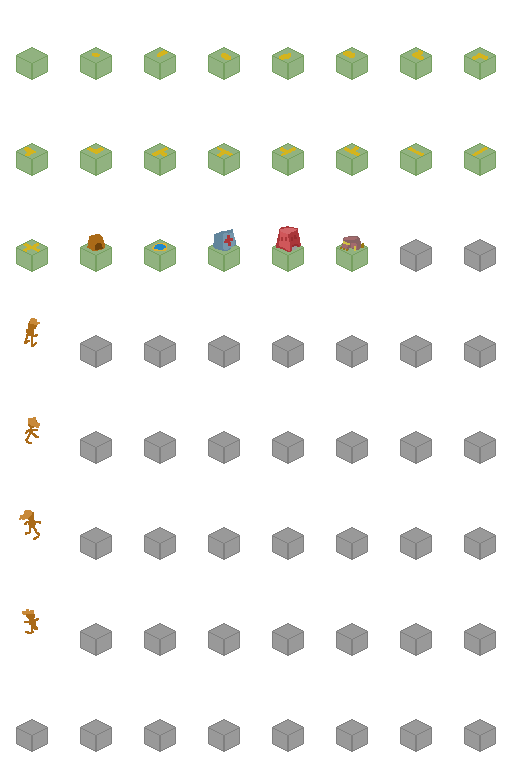
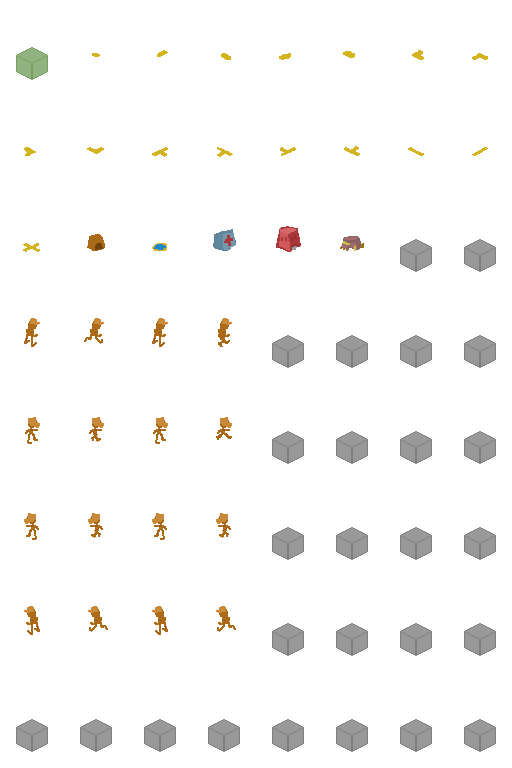
feat(game): a walker's legs move as it crosses a cell
Each facing's row of the 1x1 sheet now holds four walk-cycle
frames, cycled left to right once per cell and starting over, with
the first frame doubling as the standing sprite an idle walker
holds.

Which frame shows is walkerFrame() in WalkerMotion, beside the
slide it keeps step with: the same exact stepPhase() fraction,
times the cycle length, truncated.  One clock for the legs and the
ground, so neither can drift against the other, and a paused run
freezes both through the same forced zero fraction GridScene
already applies to the slide.

walkerTile() takes the frame and keeps the sheet's layout in
TileAtlas.hpp, where every other index becomes pixels; asking for
a frame past the cycle wraps, as spriteRect() wraps.  The atlas
art gains the twelve new frames.

diff --git a/src/apps/game/include/antwika/game/TileAtlas.hpp b/src/apps/game/include/antwika/game/TileAtlas.hpp
@@ -240,10 +240,20 @@ namespace antwika::game
      * @brief The first of the four walker rows in the 1x1 sheet.
      *
      * A whole row per facing rather than a sprite, in Direction order,
-     * with today's art in column 0 and the rest of each row reserved
-     * for the walk cycle's frames.
+     * with the walk cycle's frames in the first kWalkCycleFrames
+     * columns and the rest of each row still reserved.
      */
     inline constexpr std::uint32_t kFirstWalkerRow = 3;
+
+    /**
+     * @brief How many frames each facing's walk cycle has.
+     *
+     * The first kWalkCycleFrames columns of a facing's row, cycled
+     * left to right; column 0 doubles as the standing frame, so an
+     * idle walker is the cycle held at its start rather than a fifth
+     * sprite.
+     */
+    inline constexpr std::uint32_t kWalkCycleFrames = 4;
 
     /**
      * @brief Which sprite draws each building kind, in its own sheet.
@@ -325,6 +335,11 @@ namespace antwika::game
     static_assert(
         kFirstWalkerRow + kDirectionCount <= kAtlasRows,
         "the 1x1 sheet has no row for every walker facing");
+
+    // A cycle wider than a row would walk into the next facing's art.
+    static_assert(
+        kWalkCycleFrames <= kAtlasColumns,
+        "a facing's walk cycle must fit in its own row");
 
     // A footprint's edge is what picks a sheet, so it must pick one.
     static_assert(
@@ -412,16 +427,27 @@ namespace antwika::game
 
     /**
      * @brief Get the sprite a walker facing this way is drawn from.
+     *
+     * Which frame to ask for is WalkerMotion's walkerFrame(); this
+     * only turns the pair into pixels, so the sheet's layout stays in
+     * this one header.
+     *
      * @param facing The direction the walker is facing.
+     * @param frame Which frame of the facing's walk cycle to show;
+     * one past the last wraps round, as spriteRect()'s index does,
+     * and the default is the standing frame.
      * @return The walker sprite's rectangle, in the 1x1 sheet's pixels.
      */
-    [[nodiscard]] constexpr Rect walkerTile(Direction facing) noexcept
+    [[nodiscard]] constexpr Rect walkerTile(
+        Direction facing, std::uint32_t frame = 0) noexcept
     {
         const auto row = kFirstWalkerRow
             + static_cast<std::uint32_t>(
                 directionIndex(facing) % kDirectionCount);
 
-        return spriteRect(AtlasKind::OneByOne, row * kAtlasColumns);
+        return spriteRect(
+            AtlasKind::OneByOne,
+            row * kAtlasColumns + frame % kWalkCycleFrames);
     }
 
     /**

diff --git a/src/apps/game/tests/TileAtlasTest.cpp b/src/apps/game/tests/TileAtlasTest.cpp
@@ -30,6 +30,7 @@ using antwika::game::kAtlasRows;
 using antwika::game::kFirstWalkerRow;
 using antwika::game::kLinkMask;
 using antwika::game::kRoadSpriteCount;
+using antwika::game::kWalkCycleFrames;
 using antwika::game::linkBit;
 using antwika::game::roadTile;
 using antwika::game::spriteRect;
@@ -248,8 +249,8 @@ TEST(TileAtlasTest, WalkerTile_GivesEachFacingASpriteOfItsOwn)
     }
 }
 
-// A row per facing, with today's sprite in its first column.
-// The rest of each row is reserved for the walk cycle's frames.
+// A row per facing, with the standing frame in its first column.
+// The columns past the cycle are still reserved.
 TEST(TileAtlasTest, WalkerTile_StartsEachFacingsRow)
 {
     for (const auto facing : kEveryDirection)
@@ -262,6 +263,33 @@ TEST(TileAtlasTest, WalkerTile_StartsEachFacingsRow)
             walkerTile(facing),
             spriteRect(AtlasKind::OneByOne, row * kAtlasColumns));
     }
+}
+
+// The walk cycle runs left to right along the facing's own row.
+// Its first frame is the standing sprite, so no fifth is needed.
+TEST(TileAtlasTest, WalkerTile_WalksEachFacingsRowLeftToRight)
+{
+    for (const auto facing : kEveryDirection)
+    {
+        const auto row = kFirstWalkerRow
+            + static_cast<std::uint32_t>(
+                antwika::game::directionIndex(facing));
+
+        for (std::uint32_t frame = 0; frame < kWalkCycleFrames; ++frame)
+        {
+            EXPECT_EQ(
+                walkerTile(facing, frame),
+                spriteRect(
+                    AtlasKind::OneByOne, row * kAtlasColumns + frame));
+        }
+    }
+}
+
+TEST(TileAtlasTest, WalkerTile_WrapsAFramePastTheCycleRound)
+{
+    EXPECT_EQ(
+        walkerTile(Direction::North, kWalkCycleFrames),
+        walkerTile(Direction::North, 0));
 }
 
 // A building's sheet is its footprint's, by construction.
@@ -341,7 +369,10 @@ TEST(TileAtlasTest, NoTwoRangesShareASprite)
 
     for (const auto facing : kEveryDirection)
     {
-        keep(AtlasKind::OneByOne, walkerTile(facing));
+        for (std::uint32_t frame = 0; frame < kWalkCycleFrames; ++frame)
+        {
+            keep(AtlasKind::OneByOne, walkerTile(facing, frame));
+        }
     }
 
     for (std::size_t index = 0; index < antwika::game::kBuildingKindCount;

diff --git a/src/apps/game/tests/WalkerMotionTest.cpp b/src/apps/game/tests/WalkerMotionTest.cpp
@@ -17,8 +17,10 @@ using antwika::game::tileSpriteBounds;
 using antwika::game::Cell;
 using antwika::game::Direction;
 using antwika::game::kTicksPerStep;
+using antwika::game::kWalkCycleFrames;
 using antwika::game::stepPhase;
 using antwika::game::walkerBounds;
+using antwika::game::walkerFrame;
 using antwika::game::WalkerSprite;
 
 namespace
@@ -66,6 +68,35 @@ TEST(WalkerMotionTest, StepPhase_NeverReachesTheEndOfTheStep)
         stepPhase(kTicksPerStep - 1, Progress(frames - 1, frames));
 
     EXPECT_LT(last.numerator(), last.denominator());
+}
+
+// The legs read the same clock as the slide.
+// One whole cycle per cell, left to right, frame by frame.
+TEST(WalkerMotionTest, WalkerFrame_CyclesOncePerCellAsThePhaseGoes)
+{
+    EXPECT_EQ(walkerFrame(stepping(0), Progress()), 0U);
+    EXPECT_EQ(walkerFrame(stepping(0), Progress(1, 2)), 1U);
+    EXPECT_EQ(walkerFrame(stepping(1), Progress()), 2U);
+    EXPECT_EQ(walkerFrame(stepping(1), Progress(1, 2)), 3U);
+}
+
+TEST(WalkerMotionTest, WalkerFrame_NeverLeavesTheCycle)
+{
+    // The last frame of the last tick of a step stays the last frame.
+    // stepPhase() never reaches one, so the quotient never wraps.
+    EXPECT_EQ(
+        walkerFrame(stepping(kTicksPerStep - 1), Progress(7, 8)),
+        kWalkCycleFrames - 1);
+}
+
+TEST(WalkerMotionTest, WalkerFrame_HoldsAnIdleWalkerOnTheStandingFrame)
+{
+    // A walker with nowhere it came from has never stepped.
+    // Whatever the frames do, it stands on the cycle's first frame.
+    const WalkerSprite fresh{.at = kDestination};
+
+    EXPECT_EQ(walkerFrame(fresh, Progress()), 0U);
+    EXPECT_EQ(walkerFrame(fresh, Progress(3, 4)), 0U);
 }
 
 TEST(WalkerMotionTest, WalkerBounds_PutsAWalkerAtItsStartWhenNoneHasGone)

diff --git a/src/apps/game/tests/GridSceneTest.cpp b/src/apps/game/tests/GridSceneTest.cpp
@@ -380,6 +380,53 @@ TEST_F(GridSceneTest, Draw_ChoosesAWalkerTileByWhichWayItFaces)
     }
 }
 
+// The legs read the same clock as the slide.
+// A tick and a half into a two-tick step is frame 3 of 4.
+TEST_F(GridSceneTest, Draw_CyclesAWalkersLegsAsItCrossesACell)
+{
+    scene.draw(
+        renderer,
+        kCanvas,
+        snapshot(
+            Camera(Point{.x = 300, .y = 40}, 2),
+            GridExtent{},
+            {},
+            {WalkerSprite{
+                .at = Cell{.x = 1, .y = 1},
+                .facing = Direction::East,
+                .from = Cell{.x = 0, .y = 1},
+                .ticksIntoStep = 1}}),
+        atlases,
+        Progress(1, 2));
+
+    ASSERT_EQ(renderer.blits.size(), 1U);
+    EXPECT_EQ(
+        renderer.blits.front().source, walkerTile(Direction::East, 3));
+}
+
+// A held walker's legs freeze with its slide.
+// The same forced zero fraction decides both -- see draw().
+TEST_F(GridSceneTest, Draw_HoldsAPausedWalkersLegsStill)
+{
+    auto scene_ = snapshot(
+        Camera(Point{.x = 300, .y = 40}, 2),
+        GridExtent{},
+        {},
+        {WalkerSprite{
+            .at = Cell{.x = 1, .y = 1},
+            .facing = Direction::East,
+            .from = Cell{.x = 0, .y = 1},
+            .ticksIntoStep = 1}});
+    scene_.paused = true;
+
+    scene.draw(renderer, kCanvas, scene_, atlases, Progress(1, 2));
+
+    // One whole tick of the step and none of the frame is frame 2.
+    ASSERT_EQ(renderer.blits.size(), 1U);
+    EXPECT_EQ(
+        renderer.blits.front().source, walkerTile(Direction::East, 2));
+}
+
 // A walker is never hidden by the road it is standing on.
 TEST_F(GridSceneTest, Draw_BlitsAWalkerAfterTheGroundAndTheRoad)
 {

diff --git a/src/apps/game/tests/RenderSystemTest.cpp b/src/apps/game/tests/RenderSystemTest.cpp
@@ -504,10 +504,12 @@ TEST_F(RenderSystemTest, Draw_HoldsAWalkerStillWhileTheRunIsPaused)
     Rect atTick{};
     Rect between{};
 
+    // Held legs freeze too: both frames show the walk cycle's frame 2.
+    // One whole tick of a two-tick step, and none of the frame.
     EXPECT_CALL(renderer, drawTexture(_, _, _, _)).Times(AnyNumber());
     EXPECT_CALL(
         renderer,
-        drawTexture(Ref(atlas), walkerTile(Direction::East), _, _))
+        drawTexture(Ref(atlas), walkerTile(Direction::East, 2), _, _))
         .WillOnce(SaveArg<2>(&atTick))
         .WillOnce(SaveArg<2>(&between));
 
@@ -536,11 +538,16 @@ TEST_F(RenderSystemTest, Draw_SlidesAWalkerWhileTheRunIsNotPaused)
     Rect atTick{};
     Rect between{};
 
+    // A live walker's legs advance with its slide.
+    // Frame 2 of the cycle at the tick, frame 3 half a tick later.
     EXPECT_CALL(renderer, drawTexture(_, _, _, _)).Times(AnyNumber());
     EXPECT_CALL(
         renderer,
-        drawTexture(Ref(atlas), walkerTile(Direction::East), _, _))
-        .WillOnce(SaveArg<2>(&atTick))
+        drawTexture(Ref(atlas), walkerTile(Direction::East, 2), _, _))
+        .WillOnce(SaveArg<2>(&atTick));
+    EXPECT_CALL(
+        renderer,
+        drawTexture(Ref(atlas), walkerTile(Direction::East, 3), _, _))
         .WillOnce(SaveArg<2>(&between));
 
     system.update(world, 0);

diff --git a/src/apps/game/include/antwika/game/WalkerMotion.hpp b/src/apps/game/include/antwika/game/WalkerMotion.hpp
@@ -58,6 +58,29 @@ namespace antwika::game
         std::uint8_t ticksIntoStep, Progress subTick);
 
     /**
+     * @brief Get which frame of its walk cycle a walker is showing.
+     *
+     * One whole cycle per cell, resolved from the same exact fraction
+     * that slides the walker: the phase times kWalkCycleFrames,
+     * truncated, so the legs and the slide read one clock and cannot
+     * drift apart.  The phase never reaches one, so the answer is
+     * always inside the cycle.
+     *
+     * A walker with nowhere it came from has never stepped, and shows
+     * the standing frame -- the cycle held at its start rather than a
+     * fifth sprite.
+     *
+     * A paused caller passes the zero fraction, exactly as it does to
+     * walkerBounds(), so a held walker's legs freeze with its slide.
+     *
+     * @param walker The walker to resolve.
+     * @param subTick How far through the current tick this frame is.
+     * @return The frame to show, always below kWalkCycleFrames.
+     */
+    [[nodiscard]] std::uint32_t walkerFrame(
+        const WalkerSprite &walker, Progress subTick);
+
+    /**
      * @brief Get where to draw a walker this frame.
      *
      * A walker with nowhere it came from is drawn on its own cell, since

diff --git a/src/apps/game/src/WalkerMotion.cpp b/src/apps/game/src/WalkerMotion.cpp
@@ -8,6 +8,7 @@
 #include <antwika/tween/Tween.hpp>
 
 #include "antwika/game/SpriteBounds.hpp"
+#include "antwika/game/TileAtlas.hpp"
 #include "antwika/game/Walker.hpp"
 
 namespace antwika::game
@@ -21,6 +22,22 @@ namespace antwika::game
             static_cast<antwika::time::Tick>(ticksIntoStep) * frames
                 + subTick.numerator(),
             static_cast<antwika::time::Tick>(kTicksPerStep) * frames);
+    }
+
+    std::uint32_t walkerFrame(
+        const WalkerSprite &walker, Progress subTick)
+    {
+        if (!walker.from.has_value())
+        {
+            return 0;
+        }
+
+        const auto phase = stepPhase(walker.ticksIntoStep, subTick);
+
+        // stepPhase() never reaches one.
+        // So the quotient is always below kWalkCycleFrames.
+        return static_cast<std::uint32_t>(
+            phase.numerator() * kWalkCycleFrames / phase.denominator());
     }
 
     Rect walkerBounds(

diff --git a/src/apps/game/src/GridScene.cpp b/src/apps/game/src/GridScene.cpp
@@ -291,9 +291,11 @@ namespace antwika::game
                 continue;
             }
 
+            // The frame reads the slide's own pause-adjusted fraction.
+            // So a held walker's legs freeze with it.
             renderer.drawTexture(
                 atlases.oneByOne,
-                walkerTile(walker.facing),
+                walkerTile(walker.facing, walkerFrame(walker, phase)),
                 bounds,
                 kUntinted);
         }

diff --git a/wiki/apps/game-texture-atlas.md b/wiki/apps/game-texture-atlas.md
@@ -63,14 +63,15 @@ sprite  count  what
 1-16    16     roads, ordered by which arms they join (below)
 17-21   5      the 1x1 buildings: house, well, doctor,
                  fire station, engineer post
-24      1      walker facing NE on screen (grid north), row 3
-32      1      walker facing SE on screen (grid east), row 4
-40      1      walker facing SW on screen (grid south), row 5
-48      1      walker facing NW on screen (grid west), row 6
+24-27   4      walker facing NE on screen (grid north), row 3
+32-35   4      walker facing SE on screen (grid east), row 4
+40-43   4      walker facing SW on screen (grid south), row 5
+48-51   4      walker facing NW on screen (grid west), row 6
 ```
 
 Every other sprite is currently unused: the game never blits one, so what an unused cell holds is free — today most hold the template block the sheet was ruled out from.
-The rest of each walker's row (25-31, 33-39, 41-47, 49-55) is reserved for that facing's walk-cycle frames.
+Each walker row's four sprites are that facing's walk cycle, cycled left to right once per cell crossed; the first doubles as the standing frame, which is why an idle walker needs no fifth sprite.
+The rest of each walker's row (28-31, 36-39, 44-47, 52-55) stays reserved for more frames.
 
 ## The roads, and the mask-to-sprite table
 
@@ -95,6 +96,10 @@ sprite  arms on screen        sprite  arms on screen
 ## The walkers
 
 One facing per row, rows 3 to 6, in `Direction` order — and **facing is in grid space, not screen space**: north is up-and-*right* on screen, east is down-and-right, south is down-and-left, west is up-and-left.
+
+**Each row's first four sprites are that facing's walk cycle**, in walking order left to right, and the first of them doubles as the standing frame.
+Which frame shows is `WalkerMotion.hpp`'s `walkerFrame()`: one whole cycle per cell crossed, resolved from the same exact step fraction that slides the walker between cells, so the legs cannot drift against the ground and a paused run freezes both together.
+An idle walker — one that has not yet taken a step — holds the standing frame.
 
 **A walker sprite is meant to be tinted at blit time, once per walker kind.**
 There are seven kinds — water carrier, doctor, fireman, engineer, cart pusher, market buyer and market seller — and four facings, and the art is four sprites rather than twenty-eight because the kind is meant to be applied as a colour multiply over the facing's sprite.
@@ -152,7 +157,7 @@ satisfies `|east| <= 0.5` and `|south| <= 0.5`, where `w` and `h` are half the f
 
 **Most of the building sprites are placeholder blocks and want drawing properly.**
 A placeholder is the template block — the footprint diamond and its skirt in a flat fill — which respects every rule above and says nothing about what the building is.
-The walkers are small neutral figures, one per facing, with their walk-cycle rows empty.
+The walkers are small neutral figures, four walk-cycle frames per facing.
 
 ## What is left checking the art
 

diff --git a/wiki/apps/game.md b/wiki/apps/game.md
@@ -209,6 +209,9 @@ The slide itself is `WalkerMotion.hpp`, through [`tween`](../libraries/tween.md)
 That constant is `Easing::Linear` **on purpose rather than pending**: a walker crosses many cells in a row, so easing each cell's step would make it start and stop at every tile.
 Easing the camera that follows it is the version of that idea which reads correctly.
 
+The legs read the same clock: `walkerFrame()` beside the slide resolves which of a facing's four walk-cycle frames shows, one whole cycle per cell, by truncating the same exact step fraction — so the legs cannot drift against the ground, a paused run freezes both together, and an idle walker holds the cycle's standing first frame.
+The frame-to-sprite crossing stays in `TileAtlas.hpp`'s `walkerTile()`, which is where every other index becomes pixels; see [`game-texture-atlas`](game-texture-atlas.md) for what the art must supply.
+
 **Those frames carry on while the run is paused, which is why the pause reaches the picture too.**
 `SceneSnapshot` carries it, read off `PauseState` by `snapshotOf()` exactly as the camera is, and `GridScene` then draws a held walker at its step's own phase whatever fraction of a tick a frame falls at.
 Without that a walker frozen mid-step slid forward through every tick and snapped back at the start of the next one, for as long as the run stayed held — the whole ticks of its step stop with `WalkerSystem`, and `FramePacedSource`'s frames do not stop with them.
